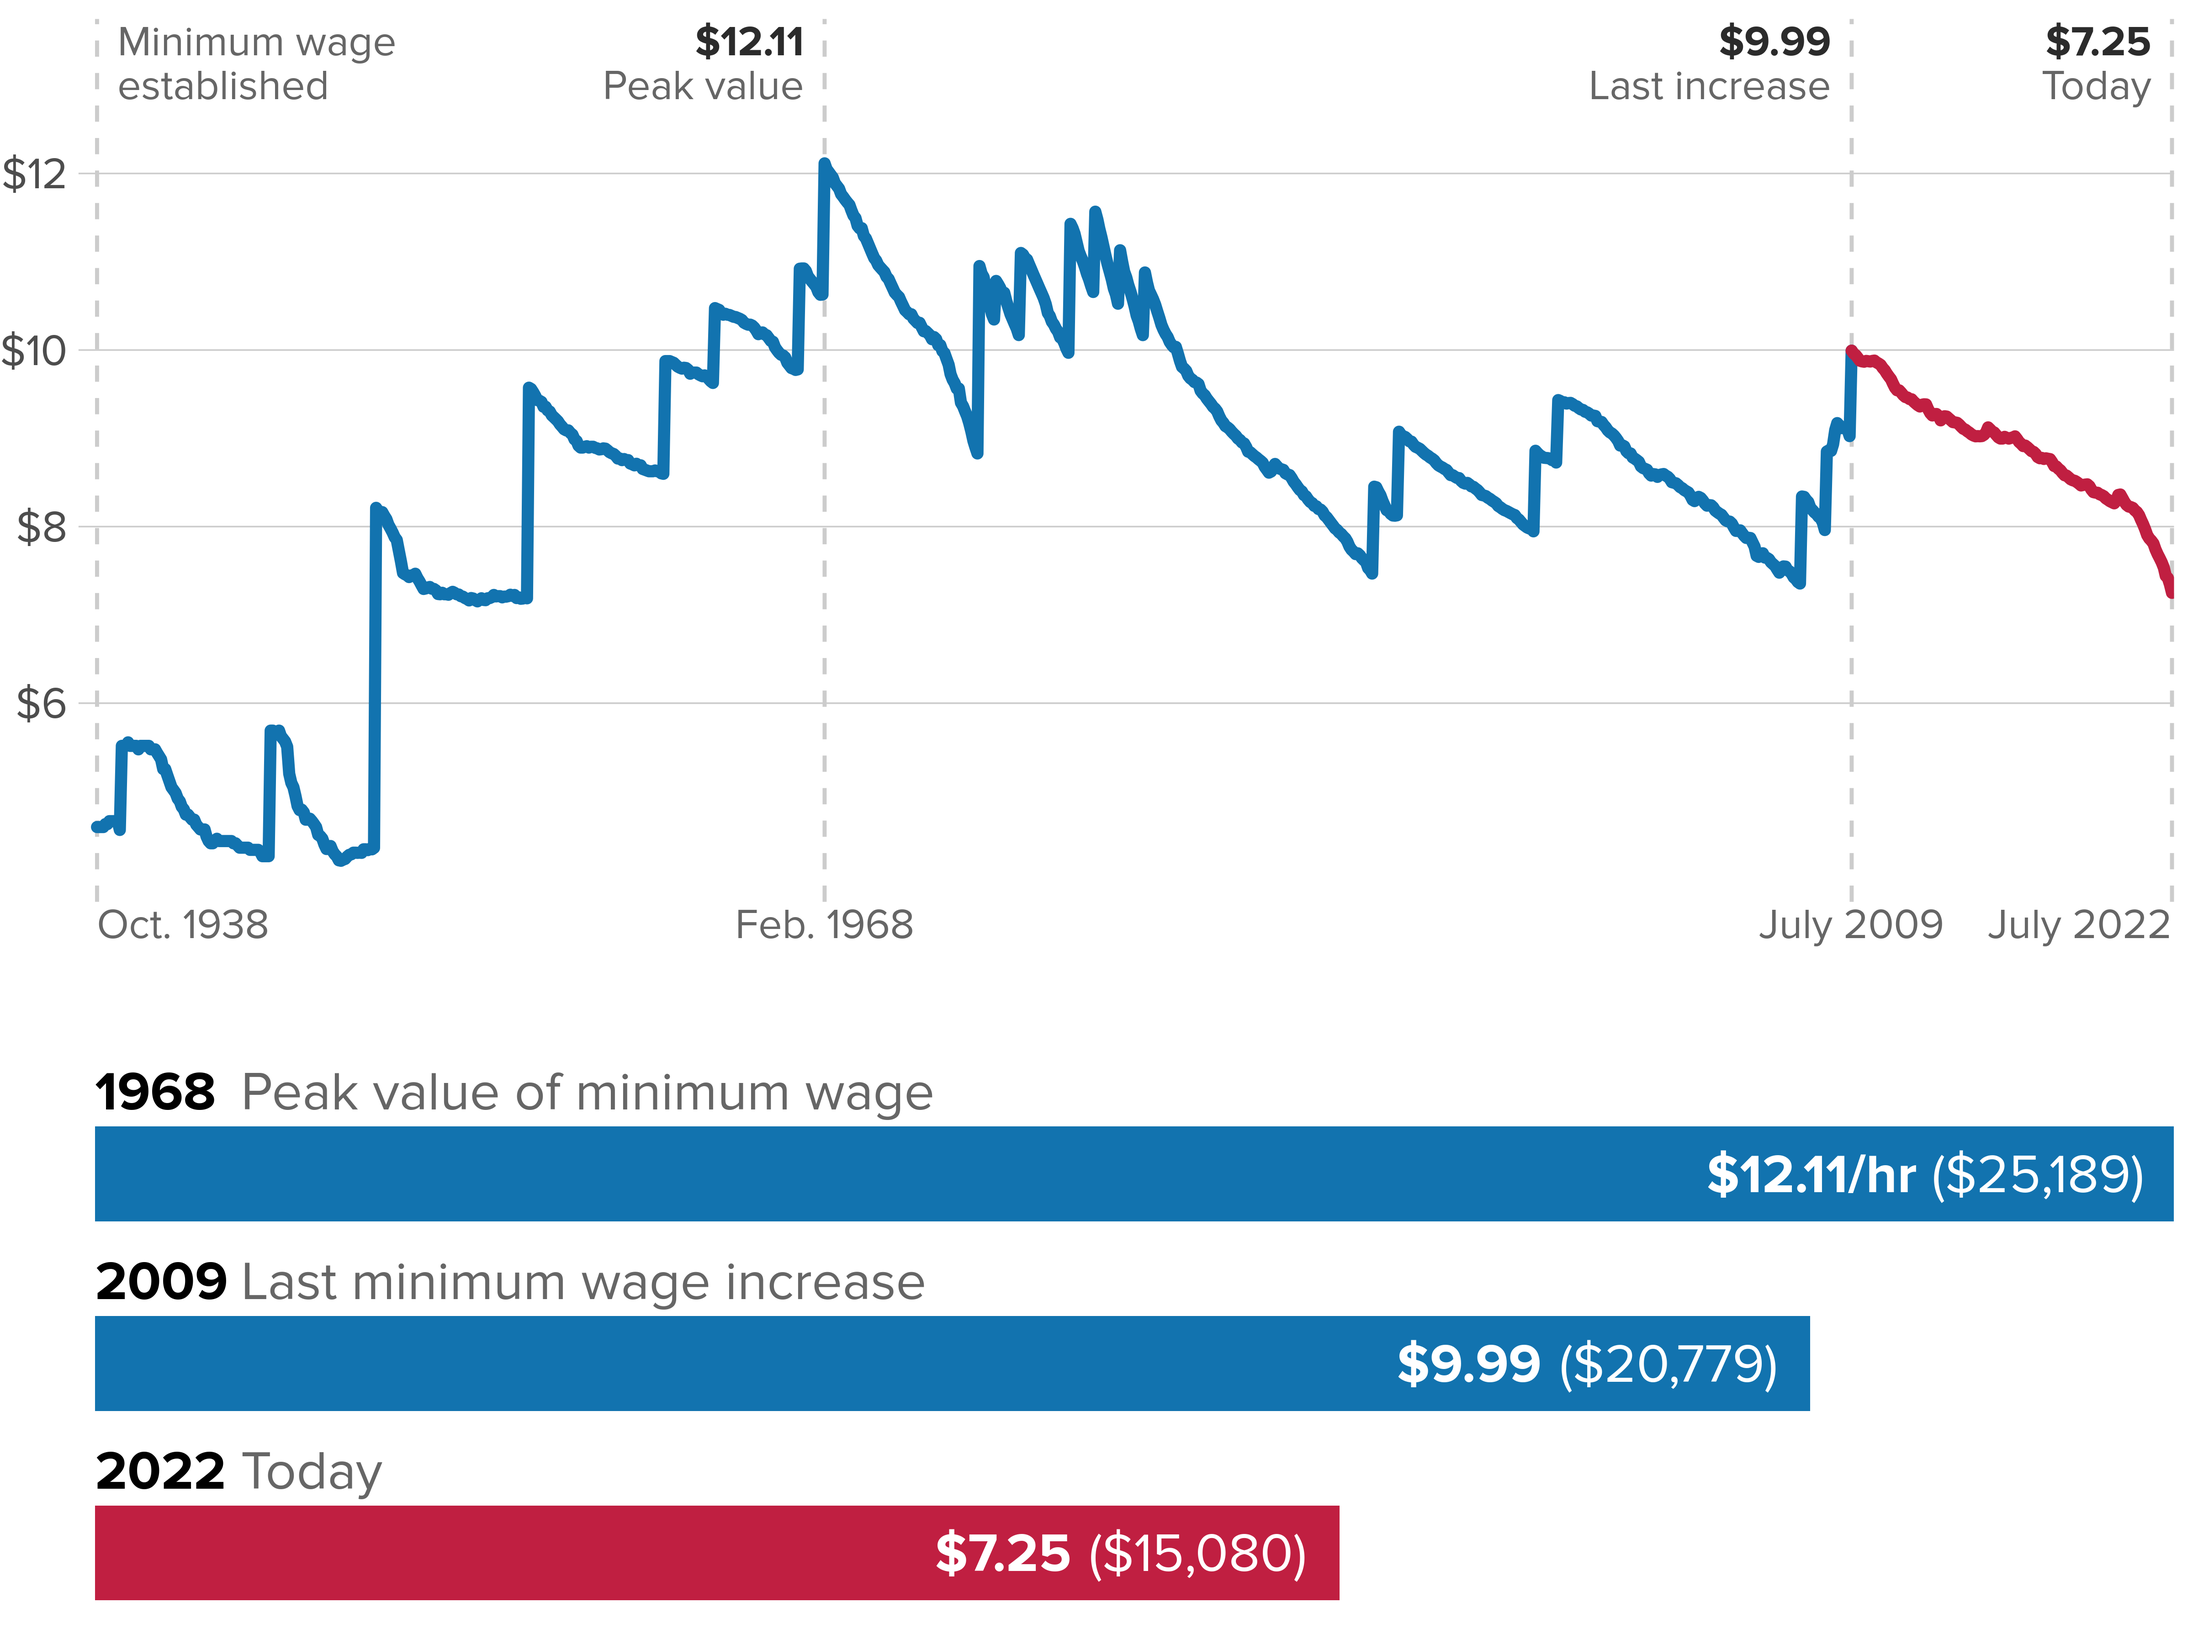
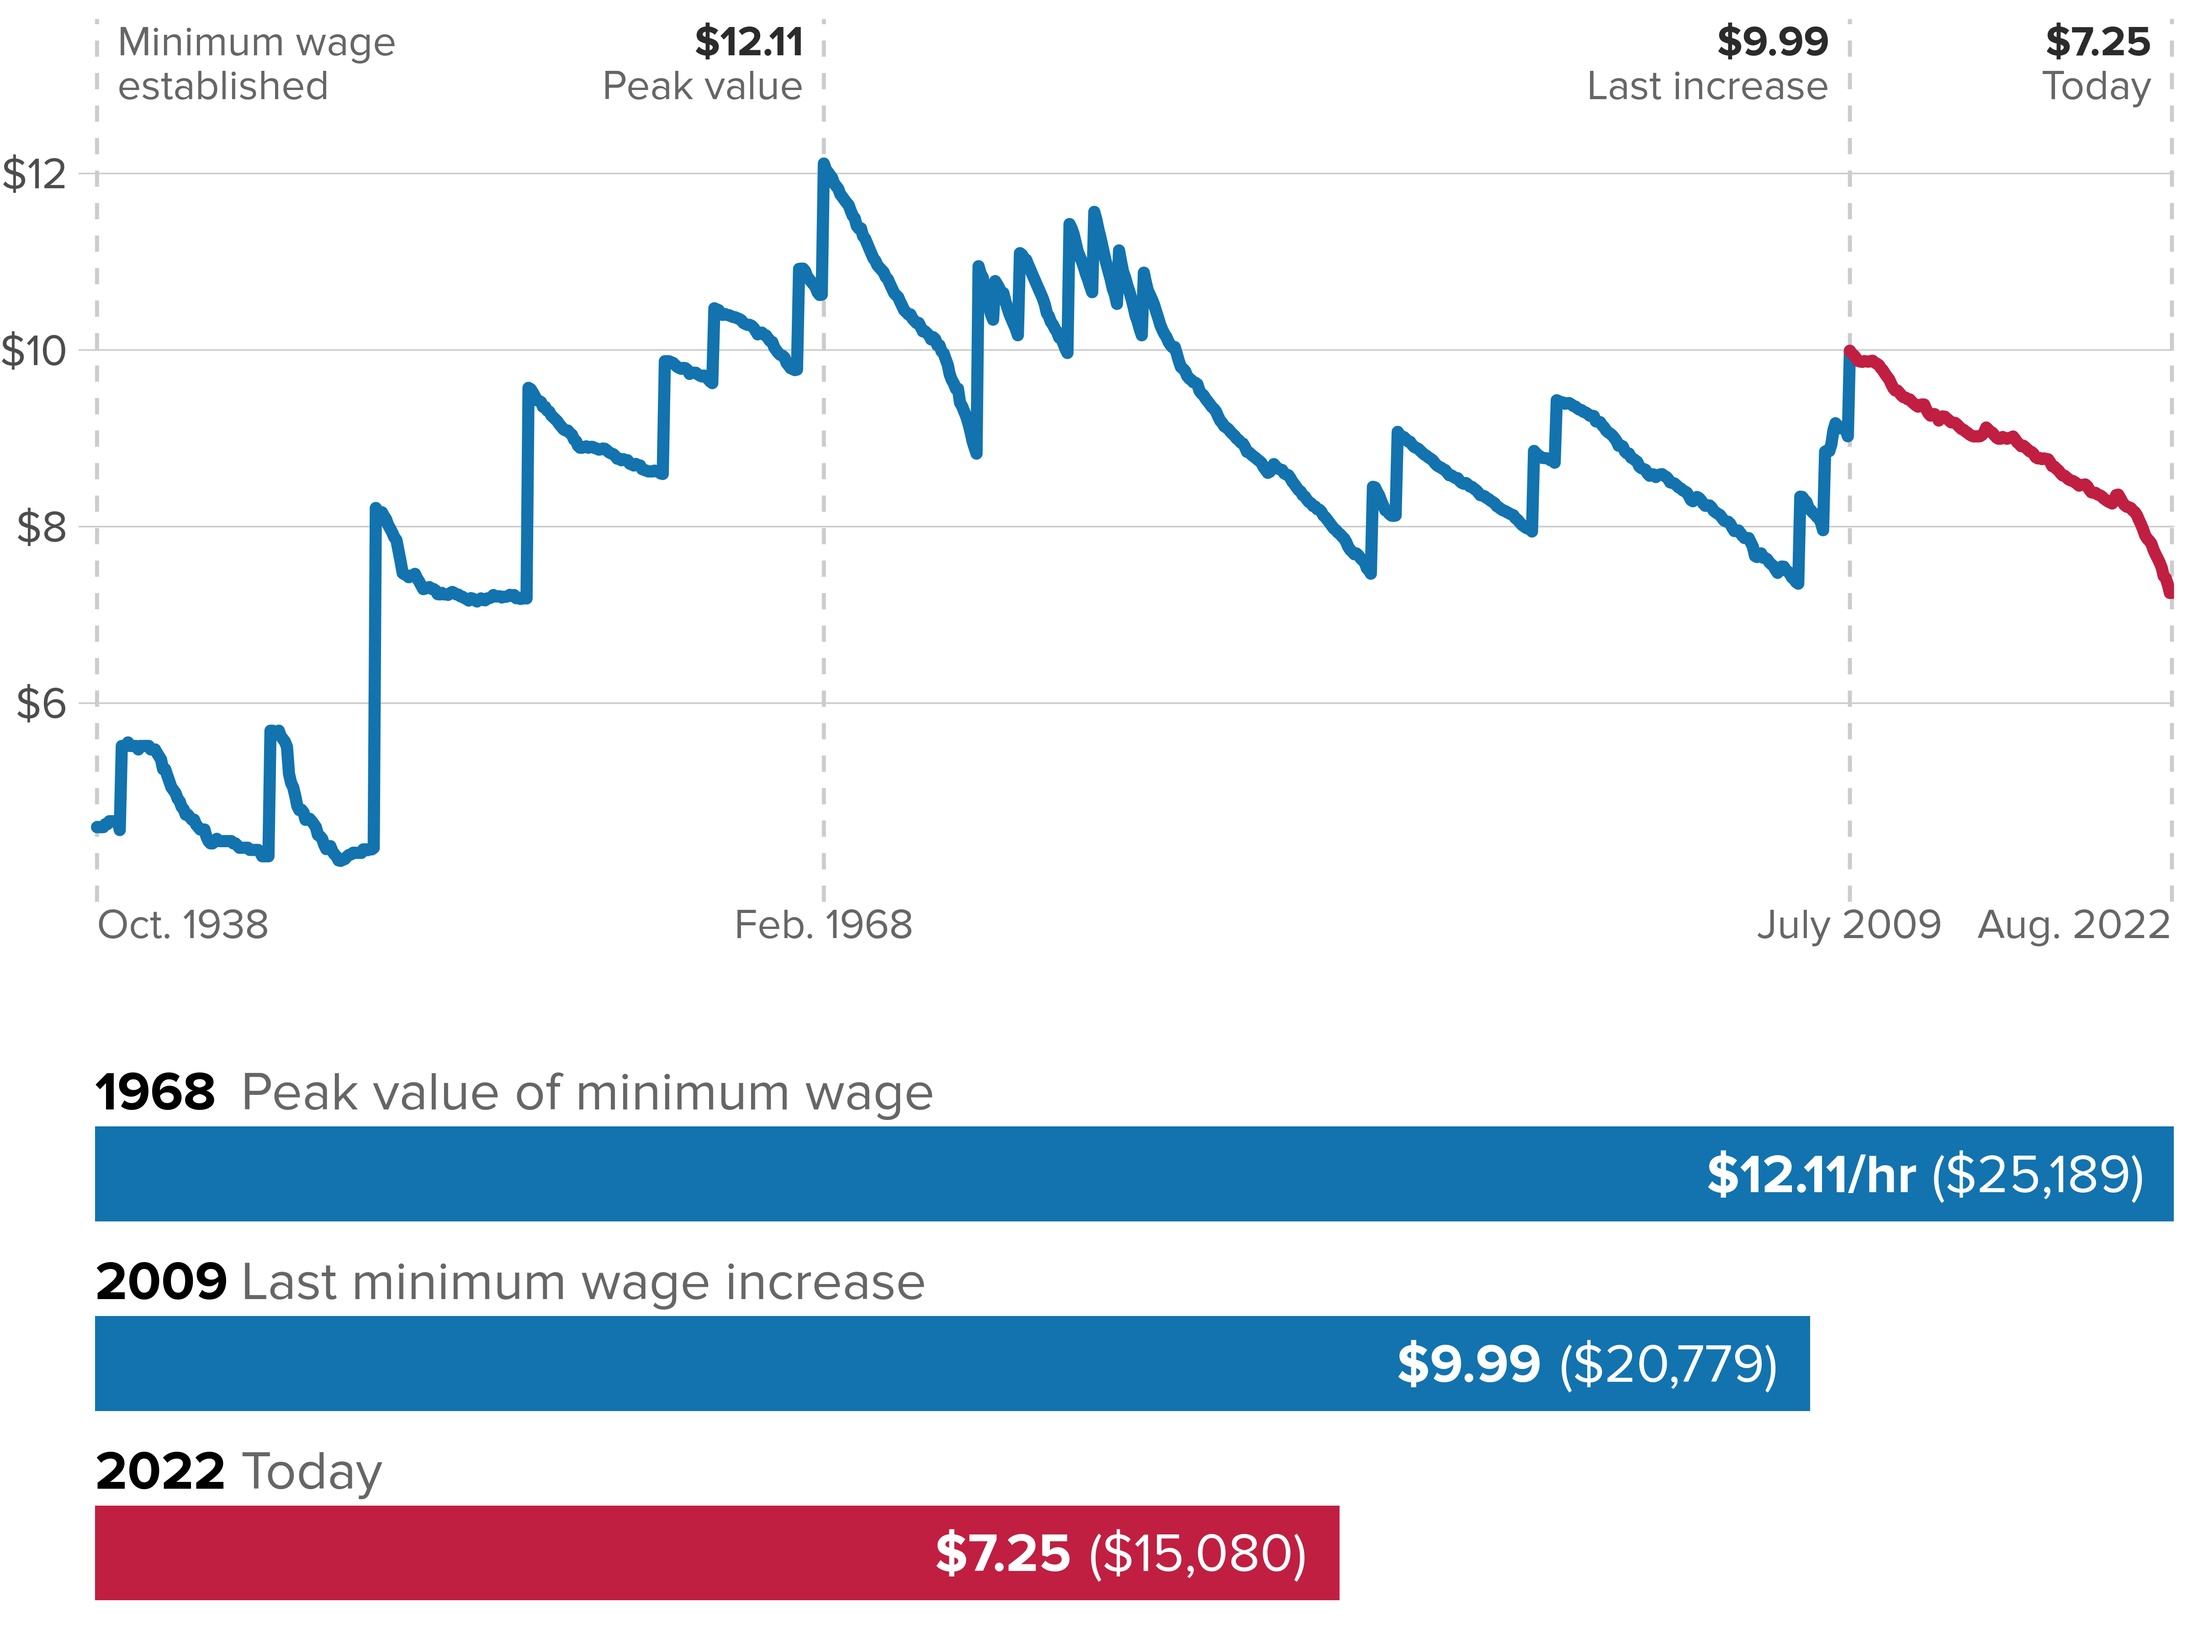
Built site for gh-pages

diff --git a/index.html b/index.html
@@ -61,7 +61,7 @@ ul.task-list{list-style: none;}
 <p><img src="index_files/figure-html/unnamed-chunk-6-1.png" class="img-fluid" width="2400"></p>
 </div>
 </div>
-<p>All values in June 2022 dollars, adjusted using the CPI-U in 2022 chained to the CPI-U-RS (1978–2021) and CPI-U-X1 (1967–1977) and CPI-U (1966 and before). For the exact calculations, see <a href="https://github.com/Economic/real_minimum_wage" class="uri">https://github.com/Economic/real_minimum_wage</a></p>
+<p>All values in July 2022 dollars, adjusted using the CPI-U in 2022 chained to the CPI-U-RS (1978–2021) and CPI-U-X1 (1967–1977) and CPI-U (1966 and before). For the exact calculations, see <a href="https://github.com/Economic/real_minimum_wage" class="uri">https://github.com/Economic/real_minimum_wage</a></p>
 </section>
 </section>
 
